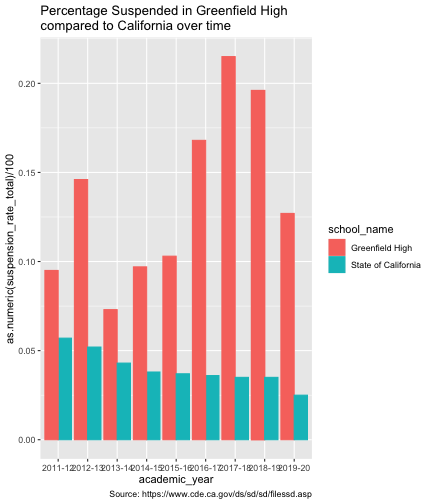
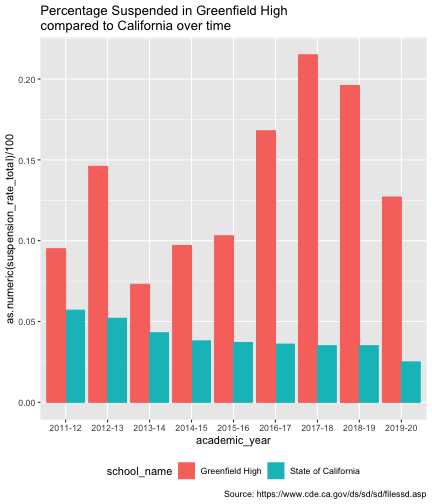
slides references

diff --git a/ggplot-flipbook.html b/ggplot-flipbook.html
@@ -29,6 +29,19 @@ background-size: cover
 
 class: inverse, middle, center
 
+# References for today
+
+### Slides: https://ggplot-flipbook.netlify.app/ggplot-flipbook.html 
+
+&lt;img src="img/qrcode.png" width="20%" /&gt;
+
+### Github repo: https://github.com/dobrowski/ggplotFlipbook
+
+
+---
+
+class: inverse, middle, center
+
 &lt;img src="img/BarbaraKrugerWhyAreYourHere.jpeg" width="40%" /&gt;
 
 .right[
@@ -154,8 +167,6 @@ https://socviz.co/index.html
 
 
 ---
-
-## Basic Dot Plot
 
 count: false
  
@@ -1071,6 +1082,36 @@ ggplot() +
 
 
 
+---
+
+# Components of a graph
+
+
+--
+.left[
+### data 
+]
+--
+.right[
+### CAASPP Data 
+]
+--
+.left[
+### aesthetics
+]
+--
+.right[
+### Which variables are x, y, color, shape, size, etc.
+]
+--
+.left[
+### geom
+]
+--
+.right[
+### A scatter plot 
+]
+
 
 ---
 
@@ -1684,12 +1725,39 @@ susp.green %&gt;%
   aes(color = school_name) +
   aes(fill = school_name) +
     labs(title = "Percentage Suspended in Greenfield High \ncompared to California over time") +
-    labs(caption = "Source: https://www.cde.ca.gov/ds/sd/sd/filessd.asp")
+    labs(caption = "Source: https://www.cde.ca.gov/ds/sd/sd/filessd.asp") +
+* theme(legend.position = "bottom")
 ```
 ]
  
 .panel2-bar-auto[
 ![](ggplot-flipbook_files/figure-html/bar_auto_12_output-1.png)&lt;!-- --&gt;
+]
+
+---
+count: false
+ 
+
+.panel1-bar-auto[
+
+```r
+susp.green %&gt;%
+  filter(reporting_category == "TA") %&gt;%
+  ggplot( ) +
+  aes(x = academic_year) +
+  aes(y = as.numeric( suspension_rate_total)/100) +
+  geom_col(position = "dodge" ) +
+  aes(group = school_name) +
+  aes(color = school_name) +
+  aes(fill = school_name) +
+    labs(title = "Percentage Suspended in Greenfield High \ncompared to California over time") +
+    labs(caption = "Source: https://www.cde.ca.gov/ds/sd/sd/filessd.asp") +
+  theme(legend.position = "bottom")
+```
+]
+ 
+.panel2-bar-auto[
+![](ggplot-flipbook_files/figure-html/bar_auto_13_output-1.png)&lt;!-- --&gt;
 ]
 
 &lt;style&gt;
@@ -3179,11 +3247,9 @@ class: middle, center
 
 
 ---
+class: inverse
 
 # Notes: 
-
-- xaringan/remark.js slideshows are not self contained, single file slide shows.  Make sure you ship all the associated files that are created to display your flipbooks/slideshows.  I like to push .html and associated files to github repository and use Github Pages to host for beyond local sharing. :-)
-
 
 &gt; **The flipbooked portion of this presentation was created with the {flipbookr} package.  Get it at remotes::install_github("EvaMaeRey/flipbookr")**
 
